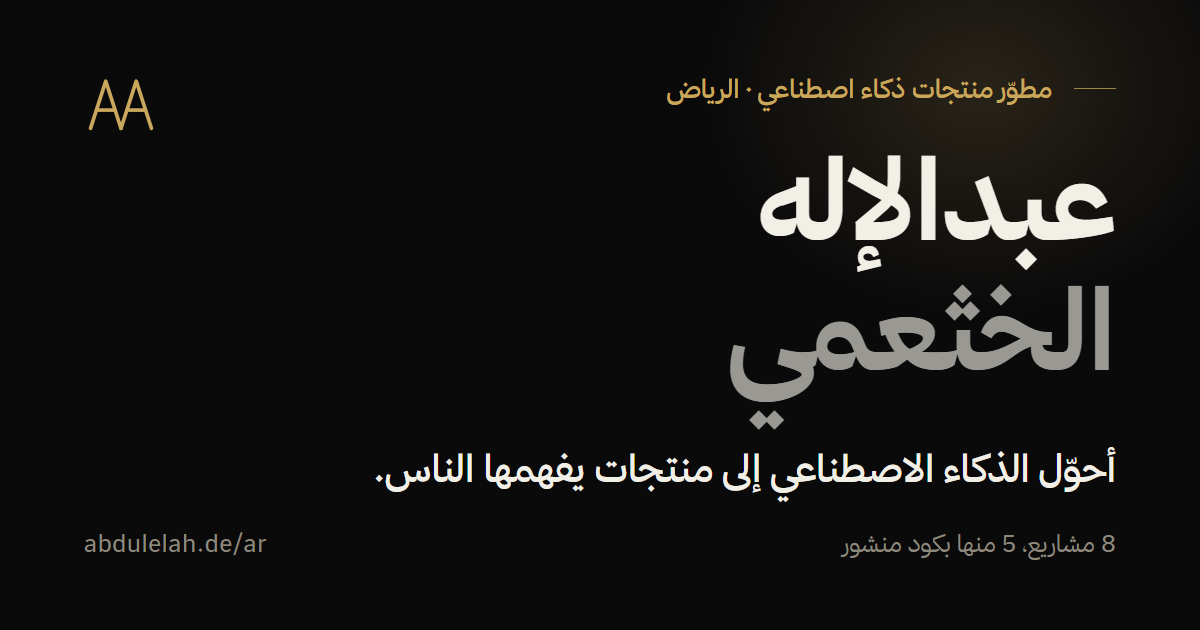
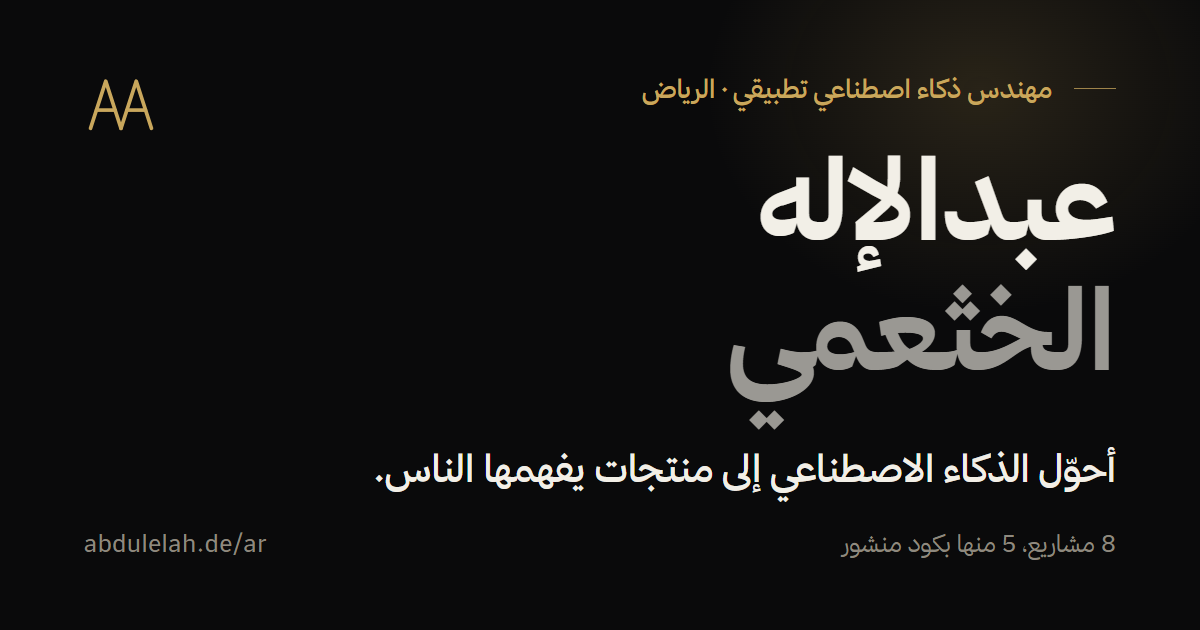
fix(content): present the site as Applied AI Engineer and state the cloud work precisely
Three corrections on top of the credibility fix (PR #12).

- Identity: the site now says "Applied AI Engineer" everywhere the role is
  named (titles, meta descriptions, hero kicker, resume glance, JSON-LD
  jobTitle, the guide's own answers, both share images), with the
  descriptor "Arabic-first LLM applications and AI agents". The hero line
  "I turn AI into products people understand." is unchanged. The site
  description counted seven projects; it now says eight, as every page does.
- AthkaU: the year is stored once per record and is 2024 in both languages,
  as it has been since the first commit; the repository holds no dated
  program document, so the year is left as is. The English timeline,
  recognition entry and guide answer now say the Top 30 was reached "with
  his team", as the Arabic already did.
- Cloud: "Cloud Architecture" is removed as a skill. The Althil repository
  shows one FastAPI service packaged with a Dockerfile for Cloud Run and no
  other cloud configuration, so the skill is now "Docker" next to "Google
  Cloud Run", and the Althil role and the guide's answers say "Cloud Run
  packaging".

Changed region(s): [[0.5242, 0.1206, 0.8633, 0.181]]

diff --git a/lib/agent/fallback.ts b/lib/agent/fallback.ts
@@ -435,7 +435,7 @@ function getArabicFallbackAgentResponse(message: string) {
   }
 
   return [
-    "عبدالإله الخثعمي مطوّر منتجات ذكاء اصطناعي في الرياض، وخريج نظم المعلومات من جامعة بيشة.",
+    "عبدالإله الخثعمي مهندس ذكاء اصطناعي تطبيقي في الرياض، وخريج نظم المعلومات من جامعة بيشة.",
     "",
     `في أعماله ${projectCounts.total} مشاريع تطبيقية: ${projectCounts.prototypes} نماذج أولية عاملة (${projectCounts.publicRepositories} منها بكود منشور) و${projectCounts.concepts} تصوّرات.`,
     "- Raqmi (رقمي): دعم عملاء بلغتين، النموذج يقترح والنظام يقرّر (مشروع ختامي في أكاديمية سدايا)",
@@ -622,7 +622,7 @@ export function getFallbackAgentResponse(
       "sustainability"
     ])
   ) {
-    return `${projectSummary("althil")} It is a hackathon prototype built with a team at the KFUPM x Google Cloud Intelligent Planet Hackathon, with public code: sun-position and heat scoring, site-photo analysis with OpenCV and shade recommendations, served by one FastAPI app packaged for Cloud Run. Abdulelah worked on the backend, the cloud architecture and the service integration. Urban density is simulated, and BigQuery, Cloud Storage and Vertex AI stayed in the design rather than the code.`;
+    return `${projectSummary("althil")} It is a hackathon prototype built with a team at the KFUPM x Google Cloud Intelligent Planet Hackathon, with public code: sun-position and heat scoring, site-photo analysis with OpenCV and shade recommendations, served by one FastAPI app packaged for Cloud Run. Abdulelah worked on the backend, the Cloud Run packaging and the service integration. Urban density is simulated, and BigQuery, Cloud Storage and Vertex AI stayed in the design rather than the code.`;
   }
 
   if (includesAny(normalized, ["absher", "security", "ueba", "risk"])) {
@@ -685,8 +685,8 @@ export function getFallbackAgentResponse(
   }
 
   if (includesAny(normalized, ["30 seconds", "quick summary", "summarize", "summary", "who is"])) {
-    return "Abdulelah Alkhathami is an AI product builder in Riyadh — agents, RAG and Arabic AI — and an Information Systems graduate of the University of Bisha. His portfolio has eight applied AI projects: five working prototypes, all with public code (Raqmi, ChatUB, Althil, Absher Insight AI and Stadium), and three concepts. He reached the Top 30 of SDAIA x Microsoft's AthkaU and has built prototypes at national hackathons, including KFUPM x Google Cloud and Absher x Tuwaiq.";
+    return "Abdulelah Alkhathami is an Applied AI Engineer in Riyadh — Arabic-first LLM applications and AI agents — and an Information Systems graduate of the University of Bisha. His portfolio has eight applied AI projects: five working prototypes, all with public code (Raqmi, ChatUB, Althil, Absher Insight AI and Stadium), and three concepts. He reached the Top 30 of SDAIA x Microsoft's AthkaU with his team and has built prototypes at national hackathons, including KFUPM x Google Cloud and Absher x Tuwaiq.";
   }
 
-  return "Abdulelah Alkhathami is an AI product builder focused on practical, context-aware AI. His portfolio spans eight applied projects across retail support, education, security, computer vision, sustainability, legal tech, fintech and immersive learning — five working prototypes and three concepts. A strong starting point is Raqmi, ChatUB, Althil, Stadium and Absher Insight AI (all with public code), followed by the resume page for the two role-specific CVs.";
+  return "Abdulelah Alkhathami is an Applied AI Engineer focused on practical, context-aware AI. His portfolio spans eight applied projects across retail support, education, security, computer vision, sustainability, legal tech, fintech and immersive learning — five working prototypes and three concepts. A strong starting point is Raqmi, ChatUB, Althil, Stadium and Absher Insight AI (all with public code), followed by the resume page for the two role-specific CVs.";
 }

diff --git a/lib/i18n/dictionaries/ar.ts b/lib/i18n/dictionaries/ar.ts
@@ -80,9 +80,9 @@ export const ar: Dictionary = {
     conceptVisualizationNote: "رسم توضيحي للفكرة — وليس لقطة شاشة من المنتج."
   },
   home: {
-    metaTitle: "عبدالإله الخثعمي — مطوّر منتجات الذكاء الاصطناعي",
+    metaTitle: "عبدالإله الخثعمي — مهندس ذكاء اصطناعي تطبيقي",
     metaDescription:
-      "عبدالإله الخثعمي مطوّر منتجات ذكاء اصطناعي في الرياض — وكلاء أذكياء وأنظمة RAG وذكاء اصطناعي عربي. استكشف ثمانية مشاريع تطبيقية والأدلة على كل منها، ونسختين من السيرة الذاتية."
+      "عبدالإله الخثعمي مهندس ذكاء اصطناعي تطبيقي في الرياض — تطبيقات النماذج اللغوية الكبيرة والوكلاء الأذكياء بالعربية أولًا. استكشف ثمانية مشاريع تطبيقية والأدلة على كل منها، ونسختين من السيرة الذاتية."
   },
   projectsPage: {
     metaTitle: "المشاريع",
@@ -95,7 +95,7 @@ export const ar: Dictionary = {
   about: {
     metaTitle: "عنّي",
     metaDescription:
-      "عبدالإله الخثعمي مطوّر منتجات ذكاء اصطناعي من الرياض — كيف يفكر، وكيف يعمل، ورحلته من أول هاكاثون إلى ثمانية مشاريع تطبيقية.",
+      "عبدالإله الخثعمي مهندس ذكاء اصطناعي تطبيقي من الرياض — كيف يفكر، وكيف يعمل، ورحلته من أول هاكاثون إلى ثمانية مشاريع تطبيقية.",
     cueTitle: "تفضّل النسخة المختصرة في دقيقتين؟",
     cueBody: "اسأل الدليل عن طريقة تفكير عبدالإله وما يهتم به وأين تكمن قوته.",
     cuePrompt: "أعطني نظرة عامة في دقيقتين عن عبدالإله: من هو، وكيف يفكر، وأين تكمن قوته.",
@@ -106,7 +106,7 @@ export const ar: Dictionary = {
     metaDescription:
       "عبدالإله الخثعمي في لمحة — التركيز والتعليم والأدلة والإنجازات — مع نسختين من السيرة الذاتية للتنزيل حسب نوع الوظيفة.",
     glance: [
-      { label: "الآن", value: "مطوّر منتجات ذكاء اصطناعي — وكلاء أذكياء وRAG وذكاء اصطناعي عربي" },
+      { label: "الآن", value: "مهندس ذكاء اصطناعي تطبيقي — تطبيقات النماذج اللغوية الكبيرة والوكلاء الأذكياء بالعربية أولًا" },
       { label: "يبحث عن", value: "وظائف في هندسة الذكاء الاصطناعي وتعاون في مشاريع تطبيقية" },
       { label: "التعليم", value: "نظم المعلومات — جامعة بيشة، 2026" },
       { label: "مقيم في", value: "الرياض، المملكة العربية السعودية" },

diff --git a/data/projects.ts b/data/projects.ts
@@ -927,7 +927,7 @@ const records: ProjectRecord[] = [
       summary:
         "A decision-support prototype that helps urban planners decide where shade interventions belong, from sun position, a heat-exposure score and site-photo analysis.",
       domain: "Sustainability · Urban planning",
-      role: "Backend developer & cloud architecture contributor",
+      role: "Backend developer · FastAPI service and Cloud Run packaging",
       statusDetail:
         "Built with a team during the Intelligent Planet Hackathon (KFUPM × Google Cloud). A hackathon prototype with public code — not used by a city.",
       context:
@@ -936,7 +936,7 @@ const records: ProjectRecord[] = [
         "Urban planners need to know where shade canopies will actually improve comfort. Heat exposure shifts with the sun’s path across the day and the year, which static plans rarely account for.",
       constraints: [
         "Hackathon time limit",
-        "A team build — Abdulelah’s part was the backend, the cloud architecture and the service integration",
+        "A team build — Abdulelah’s part was the backend, the Cloud Run packaging and the service integration",
         "No land-cover data, so urban density is simulated",
         "One container, deployable to Cloud Run"
       ],
@@ -1002,7 +1002,7 @@ const records: ProjectRecord[] = [
       summary:
         "نموذج أولي لدعم القرار يساعد المخططين الحضريين على تحديد مواضع التظليل، انطلاقًا من موقع الشمس ودرجة التعرض للحرارة وتحليل صور الموقع.",
       domain: "الاستدامة · التخطيط الحضري",
-      role: "مطوّر أنظمة خلفية ومساهم في البنية السحابية",
+      role: "مطوّر أنظمة خلفية · خدمة FastAPI وتجهيزها لـ Cloud Run",
       statusDetail:
         "بُني ضمن فريق خلال هاكاثون الكوكب الذكي (جامعة الملك فهد للبترول والمعادن مع Google Cloud). نموذج أولي في هاكاثون بكود منشور — لا تستخدمه أي مدينة.",
       context:
@@ -1011,7 +1011,7 @@ const records: ProjectRecord[] = [
         "يحتاج المخططون الحضريون إلى معرفة أين يحسّن التظليل الراحة فعلًا. فالتعرض للحرارة يتغير مع مسار الشمس خلال اليوم والسنة، وهو ما نادرًا ما تراعيه المخططات الثابتة.",
       constraints: [
         "المدة المحدودة للهاكاثون",
-        "عمل جماعي — تولّى عبدالإله الأنظمة الخلفية والبنية السحابية ودمج الخدمات",
+        "عمل جماعي — تولّى عبدالإله الأنظمة الخلفية وتجهيز التطبيق لـ Cloud Run ودمج الخدمات",
         "لا توجد بيانات لاستخدامات الأراضي، لذلك تُحاكى الكثافة العمرانية",
         "حاوية واحدة قابلة للنشر على Cloud Run"
       ],

diff --git a/lib/i18n/dictionaries/en.ts b/lib/i18n/dictionaries/en.ts
@@ -86,9 +86,9 @@ export const en = {
     conceptVisualizationNote: "Illustrative sketch of the idea — not a product screenshot."
   },
   home: {
-    metaTitle: "Abdulelah Alkhathami — AI Product Builder · Agents, RAG & Arabic AI",
+    metaTitle: "Abdulelah Alkhathami — Applied AI Engineer · Arabic-first LLM apps & AI agents",
     metaDescription:
-      "Abdulelah Alkhathami is an AI product builder in Riyadh — agents, RAG and Arabic AI. Explore eight applied AI projects, the evidence behind each, and two role-specific CVs."
+      "Abdulelah Alkhathami is an Applied AI Engineer in Riyadh — Arabic-first LLM applications and AI agents. Explore eight applied AI projects, the evidence behind each, and two role-specific CVs."
   },
   projectsPage: {
     metaTitle: "Projects",
@@ -101,7 +101,7 @@ export const en = {
   about: {
     metaTitle: "About",
     metaDescription:
-      "Abdulelah Alkhathami is an AI product builder from Riyadh — how he thinks, how he works, and the path from his first hackathon to eight applied AI projects.",
+      "Abdulelah Alkhathami is an Applied AI Engineer from Riyadh — how he thinks, how he works, and the path from his first hackathon to eight applied AI projects.",
     cueTitle: "Prefer the two-minute version?",
     cueBody: "Ask the guide how Abdulelah thinks, what he cares about and where he’s strongest.",
     cuePrompt: "Give me the two-minute overview of who Abdulelah is, how he thinks, and where he’s strongest.",
@@ -112,7 +112,7 @@ export const en = {
     metaDescription:
       "Abdulelah Alkhathami at a glance — focus, education, evidence and recognition — plus two role-specific CVs to download.",
     glance: [
-      { label: "Now", value: "AI product builder — agents, RAG and Arabic AI" },
+      { label: "Now", value: "Applied AI Engineer — Arabic-first LLM applications and AI agents" },
       { label: "Looking for", value: "AI engineering roles and applied-AI collaborations" },
       { label: "Education", value: "Information Systems — University of Bisha, 2026" },
       { label: "Based in", value: "Riyadh, Saudi Arabia" },

diff --git a/lib/agent/project-guide.ts b/lib/agent/project-guide.ts
@@ -232,10 +232,10 @@ export function getPortfolioTourResponse() {
   return [
     "60-second portfolio tour",
     "",
-    "1. Who Abdulelah is: an AI product builder in Riyadh — agents, RAG and Arabic AI — and an Information Systems graduate of the University of Bisha.",
+    "1. Who Abdulelah is: an Applied AI Engineer in Riyadh — Arabic-first LLM applications and AI agents — and an Information Systems graduate of the University of Bisha.",
     "2. Raqmi (SDAIA Academy LLM Application Engineering capstone): bilingual retail support for a fictional store where the model proposes a tool call and application code decides whether it runs. In one captured evaluation it passed 51 of 56 Golden Set cases on both DeepSeek and ALLaM, and a live cross-user lookup was denied by authorization. Public code; fictional data, not deployed.",
     "3. ChatUB (graduation project he led): a working prototype that answers Arabic academic questions from curated FAQ content with a locally served model. Public code; not deployed to students.",
-    "4. Althil (team hackathon prototype, KFUPM x Google Cloud): shade-planning decision support from sun position and heat scoring, served by one FastAPI app packaged for Cloud Run. Abdulelah worked on the backend, cloud architecture and integration. Public code; not used by a city.",
+    "4. Althil (team hackathon prototype, KFUPM x Google Cloud): shade-planning decision support from sun position and heat scoring, served by one FastAPI app packaged for Cloud Run. Abdulelah worked on the backend, Cloud Run packaging and integration. Public code; not used by a city.",
     "5. Stadium (solo build): a working computer-vision prototype that monitors gate crowding and recommends staff moves. Public code; not calibrated for a real venue.",
     "6. Absher Insight AI (hackathon prototype): explainable, rule-based risk flags on synthetic data with an operations dashboard. Public code; not affiliated with Absher.",
     "7. Also: three concepts — Qanouni, Virtual Astronauts (both AthkaU Top 30 ideas) and Medad.",

diff --git a/lib/agent/context.ts b/lib/agent/context.ts
@@ -507,7 +507,7 @@ export function buildPortfolioContext() {
     `Location: ${siteConfig.location}`,
     "GitHub profile: available through an action button.",
     "LinkedIn profile: available through an action button.",
-    "Positioning: AI Product Builder — agents, RAG and Arabic AI. Open to AI engineering roles and applied-AI collaborations. Lead with the name (Abdulelah Alkhathami) and his work, never with 'Junior'.",
+    "Positioning: Applied AI Engineer — Arabic-first LLM applications and AI agents. Open to AI engineering roles and applied-AI collaborations. Lead with the name (Abdulelah Alkhathami) and his work, never with 'Junior'.",
     "Evidence rule: eight applied AI projects — five working prototypes (Raqmi, ChatUB, Althil, Absher Insight AI, Stadium) and three concepts (Qanouni, Virtual Astronauts, Medad). All five prototypes have public code; the concepts have none. Never call any project shipped, launched, deployed, live or in production, and never invent users, accuracy or impact numbers.",
     "Raqmi rule: Raqmi is Abdulelah's SDAIA Academy LLM Application Engineering capstone — bilingual retail support for a fictional store, on fictional in-memory data, not deployed and with no real users. Its principle: the model proposes a tool call; application code decides whether it runs. Give its figures only with their scope and as counts, never as percentages or as accuracy: in one captured run DeepSeek and ALLaM each passed 51 of 56 exact-case Golden Set checks (five FAQ cases failed per model; 24 of 24 in the high-risk slice); a live DeepSeek lookup of another customer's order (5521) was denied by application authorization; the guardrail figures (32 of 32 attacks blocked, 0 of 32 legitimate requests blocked) come from a deterministic offline corpus and do not mean every attack is stopped; native tool-calling evidence is DeepSeek only, and ALLaM's native tool calling is untested.",
     "",

diff --git a/data/site.ts b/data/site.ts
@@ -7,8 +7,8 @@ export const siteConfig = {
   name: "Abdulelah Alkhathami",
   arabicName: "عبدالإله الخثعمي",
   brand: "Abdulelah Alkhathami",
-  role: "AI Product Builder",
-  positioning: "AI Product Builder · Agents, RAG & Arabic AI",
+  role: "Applied AI Engineer",
+  positioning: "Applied AI Engineer · Arabic-first LLM applications & AI agents",
   tagline: "I build intelligent products.",
   location: "Riyadh, Saudi Arabia",
   email: "me@abdulelah.de",
@@ -22,11 +22,11 @@ export const siteConfig = {
   },
   url: siteUrl,
   description:
-    "Abdulelah Alkhathami (عبدالإله الخثعمي) is an AI product builder in Riyadh, Saudi Arabia — AI agents, RAG and Arabic AI. Seven applied AI projects across education, security, computer vision and sustainability, each with its status and evidence.",
+    "Abdulelah Alkhathami (عبدالإله الخثعمي) is an Applied AI Engineer in Riyadh, Saudi Arabia — Arabic-first LLM applications and AI agents. Eight applied AI projects across retail support, education, security, computer vision and sustainability, each with its status and evidence.",
   keywords: [
     "Abdulelah Alkhathami",
     "عبدالإله الخثعمي",
-    "AI Product Builder",
+    "Applied AI Engineer",
     "AI Engineer",
     "AI Solutions Specialist",
     "AI Agents",

diff --git a/lib/agent/recruiter.ts b/lib/agent/recruiter.ts
@@ -57,13 +57,13 @@ export const recruiterRoleProfiles: RecruiterRoleProfile[] = [
     id: "ai-solutions-engineer",
     label: "AI Solutions Engineer",
     fitSummary:
-      "Abdulelah is a promising AI solutions engineering candidate because his portfolio combines working AI prototypes with cloud architecture, product framing, and explainable user-facing experiences.",
+      "Abdulelah is a promising AI solutions engineering candidate because his portfolio combines working AI prototypes with a containerised backend packaged for Cloud Run, product framing, and explainable user-facing experiences.",
     projects: ["ChatUB", "Absher Insight AI", "Althil"],
     skills: [
       "NLP",
       "LLM Applications",
       "API Integration",
-      "Cloud Architecture",
+      "Google Cloud Run",
       "Problem Solving"
     ],
     recommendedCv: "engineer",
@@ -111,7 +111,7 @@ export const recruiterRoleProfiles: RecruiterRoleProfile[] = [
     skills: [
       "NLP",
       "LLM Applications",
-      "Cloud Architecture",
+      "Google Cloud Run",
       "Dashboard Design",
       "Problem Solving",
       "Communication"

diff --git a/lib/metadata.ts b/lib/metadata.ts
@@ -20,13 +20,13 @@ const shareImages: Record<Locale, { url: string; width: number; height: number; 
     url: absoluteUrl(siteConfig.assets.shareImages.en),
     width: 1200,
     height: 630,
-    alt: "Abdulelah Alkhathami — AI product builder in Riyadh: I turn AI into products people understand."
+    alt: "Abdulelah Alkhathami — Applied AI Engineer in Riyadh: I turn AI into products people understand."
   },
   ar: {
     url: absoluteUrl(siteConfig.assets.shareImages.ar),
     width: 1200,
     height: 630,
-    alt: "عبدالإله الخثعمي — مطوّر منتجات ذكاء اصطناعي في الرياض: أحوّل الذكاء الاصطناعي إلى منتجات يفهمها الناس."
+    alt: "عبدالإله الخثعمي — مهندس ذكاء اصطناعي تطبيقي في الرياض: أحوّل الذكاء الاصطناعي إلى منتجات يفهمها الناس."
   }
 };
 

diff --git a/tests/e2e/keyboard.spec.ts b/tests/e2e/keyboard.spec.ts
@@ -141,7 +141,7 @@ test.describe("keyboard", () => {
         status: 200,
         contentType: "application/json",
         body: JSON.stringify({
-          answer: "Abdulelah is an AI product builder in Riyadh.",
+          answer: "Abdulelah is an Applied AI Engineer in Riyadh.",
           actions: [{ label: "View All Projects", href: "/projects", type: "internal" }],
           mode: "fallback",
           scopeJudgeAllowed: true,
@@ -155,7 +155,7 @@ test.describe("keyboard", () => {
     const cue = page.getByRole("button", { name: /Prefer the two-minute version/ });
 
     await cue.click();
-    await expect(page.getByText("Abdulelah is an AI product builder in Riyadh.")).toBeVisible();
+    await expect(page.getByText("Abdulelah is an Applied AI Engineer in Riyadh.")).toBeVisible();
     await page.keyboard.press("Escape");
     await expect(cue).toBeFocused();
   });

diff --git a/tests/e2e/i18n.spec.ts b/tests/e2e/i18n.spec.ts
@@ -6,7 +6,7 @@ test.describe("English and Arabic", () => {
     await expect(page.locator("html")).toHaveAttribute("lang", "ar");
     await expect(page.locator("html")).toHaveAttribute("dir", "rtl");
     await expect(page.getByRole("heading", { level: 1 })).toContainText("عبدالإله");
-    await expect(page).toHaveTitle("عبدالإله الخثعمي — مطوّر منتجات الذكاء الاصطناعي");
+    await expect(page).toHaveTitle("عبدالإله الخثعمي — مهندس ذكاء اصطناعي تطبيقي");
   });
 
   test("English pages are left-to-right and mark embedded Arabic correctly", async ({ page }) => {

diff --git a/tests/e2e/hero.spec.ts b/tests/e2e/hero.spec.ts
@@ -10,7 +10,7 @@ test.describe("hero", () => {
     const hero = page.locator("section[aria-labelledby='hero-title']");
 
     await expect(page.getByRole("heading", { level: 1 })).toContainText("Abdulelah");
-    await expect(hero.getByText("AI product builder · Riyadh")).toBeVisible();
+    await expect(hero.getByText("Applied AI engineer · Riyadh")).toBeVisible();
     await expect(hero.getByText(/I turn/)).toBeVisible();
     await expect(hero.getByRole("link", { name: "View selected work" })).toBeVisible();
     // The margin notes carry the evidence behind the statement.
